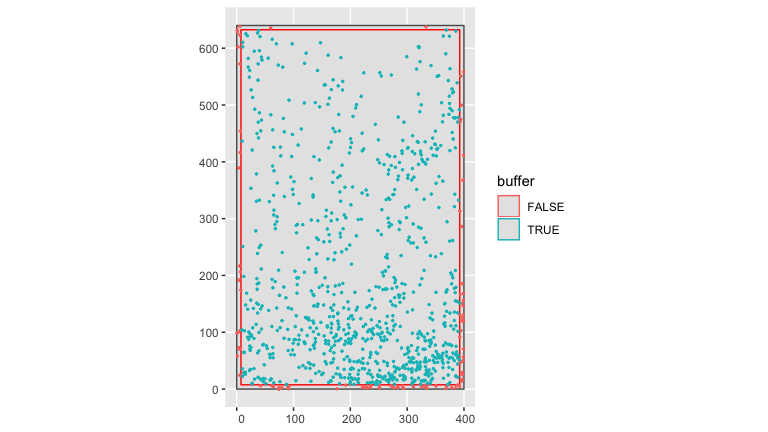
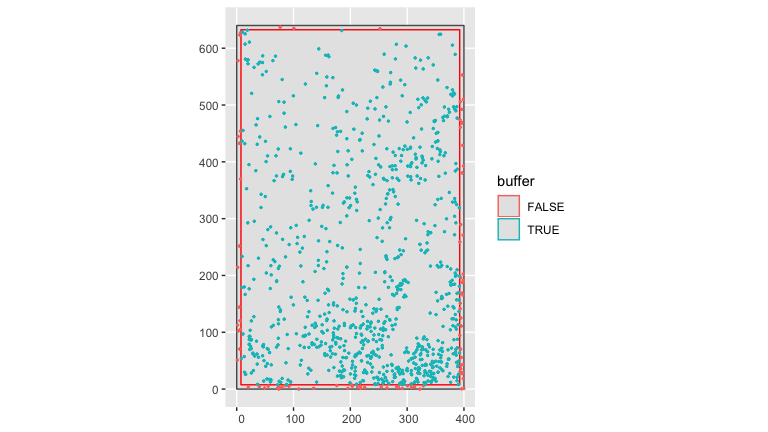
Done spatial residuals plot

diff --git a/README.md b/README.md
@@ -393,7 +393,7 @@ bw_specs
 #>     comp_basal_area * trait_group + evergreen * trait_group + 
 #>     maple * trait_group + misc * trait_group + oak * trait_group + 
 #>     short_tree * trait_group + shrub * trait_group
-#> <environment: 0x7f9f4b2b2120>
+#> <environment: 0x7f9398eb90e0>
 #> 
 #> $notion_of_focal_species
 #> [1] "trait_group"
@@ -427,18 +427,17 @@ focal_vs_comp_bw <- bw_growth_df %>%
 ``` r
 glimpse(focal_vs_comp_bw)
 #> Observations: 431,244
-#> Variables: 11
+#> Variables: 10
 #> $ focal_ID                <dbl> 1, 1, 1, 1, 1, 1, 1, 1, 1, 1, 1, 1, 1, 1, 1, …
-#> $ comp_ID                 <dbl> 2, 3, 4, 5, 6, 7, 8, 81, 82, 83, 84, 85, 86, …
-#> $ dist                    <dbl> 2.370654, 3.413210, 3.905125, 4.162932, 4.601…
+#> $ focal_notion_of_species <fct> oak, oak, oak, oak, oak, oak, oak, oak, oak, …
+#> $ dbh                     <dbl> 41.2, 41.2, 41.2, 41.2, 41.2, 41.2, 41.2, 41.…
 #> $ foldID                  <int> 12, 12, 12, 12, 12, 12, 12, 12, 12, 12, 12, 1…
 #> $ geometry                <POINT> POINT (8.7 107.5), POINT (8.7 107.5), POINT…
 #> $ growth                  <dbl> 0.40377706, 0.40377706, 0.40377706, 0.4037770…
-#> $ focal_notion_of_species <fct> oak, oak, oak, oak, oak, oak, oak, oak, oak, …
-#> $ dbh                     <dbl> 41.2, 41.2, 41.2, 41.2, 41.2, 41.2, 41.2, 41.…
+#> $ comp_ID                 <dbl> 2, 3, 4, 5, 6, 7, 8, 81, 82, 83, 84, 85, 86, …
+#> $ dist                    <dbl> 2.370654, 3.413210, 3.905125, 4.162932, 4.601…
 #> $ comp_notion_of_species  <fct> evergreen, maple, maple, maple, maple, maple,…
 #> $ comp_basal_area         <dbl> 0.0027339710, 0.1604599864, 0.0013202543, 0.0…
-#> $ growth_hat              <lgl> NA, NA, NA, NA, NA, NA, NA, NA, NA, NA, NA, N…
 ```
 
 ### Model fit and prediction
@@ -466,18 +465,16 @@ be used to get predicted growths for each individual (with
 understand what controls individual growth.
 
 ``` r
-bw_predict <- focal_vs_comp_bw %>% 
-  predict_bayesian_model(model_specs = bw_specs, posterior_param = bw_fit_model)
+bw_growth_df <- focal_vs_comp_bw %>% 
+  predict_bayesian_model(model_specs = bw_specs, posterior_param = bw_fit_model) %>% 
+  right_join(bw_growth_df, by = c("focal_ID" = "treeID"))
+  
+bw_growth_df <- bw_growth_df %>% 
+  st_as_sf()
 
-# TODO: Convert output of predict_bayesian_model() to be of focal_vs_focal type
-# TODO: Preserve geometry variable, that way we can easily create residual plots
-
-bw_predict %>%
-  group_by(focal_ID, focal_notion_of_species) %>%
-  # Since for the same focal tree all growth & growth_hat values are the same:
-  summarise(growth = mean(growth), growth_hat = mean(growth_hat)) %>%
-  ggplot(aes(x = growth, y = growth_hat)) +
-  geom_point(size = 0.5, color = rgb(0,0,0,0.25)) +
+# Observed vs predicted growth  
+ggplot(bw_growth_df, aes(x = growth, y = growth_hat)) +
+  geom_point(size = 0.5, color = rgb(0, 0, 0, 0.25)) +
   stat_smooth(method = 'lm') +
   geom_abline(slope = 1, intercept = 0) +
   coord_fixed() + 
@@ -488,6 +485,30 @@ bw_predict %>%
 ```
 
 <img src="man/figures/README-unnamed-chunk-19-1.png" width="100%" />
+
+``` r
+
+reslab <- expression(paste('Residual (cm ',y^{-1},')'))
+bw_growth_df %>% 
+  # Need to investigate missingness
+  filter(!is.na(growth_hat)) %>% 
+  mutate(
+    error = growth - growth_hat,
+    error_bin = cut_number(error, n = 5), 
+    error_compress = ifelse(error < -0.75, -0.75, ifelse(error > 0.75, 0.75, error))
+  ) %>% 
+  ggplot() + 
+  geom_sf(aes(col = error_compress), size = 0.4) + 
+  theme_bw() + 
+  scale_color_gradient2(
+    low = "#ef8a62", mid = "#f7f7f7", high = "#67a9cf", 
+    name = reslab,
+    breaks = seq(from = -0.75, to = 0.75, by = 0.25),
+    labels = c('< -0.75', '-0.5', '0.25', '0', '0.25', '0.5', '> 0.75')) +
+  labs(x = "Meter", y = "Meter")
+```
+
+<img src="man/figures/README-unnamed-chunk-19-2.png" width="100%" />
 
 ### Run spatial cross-validation
 
